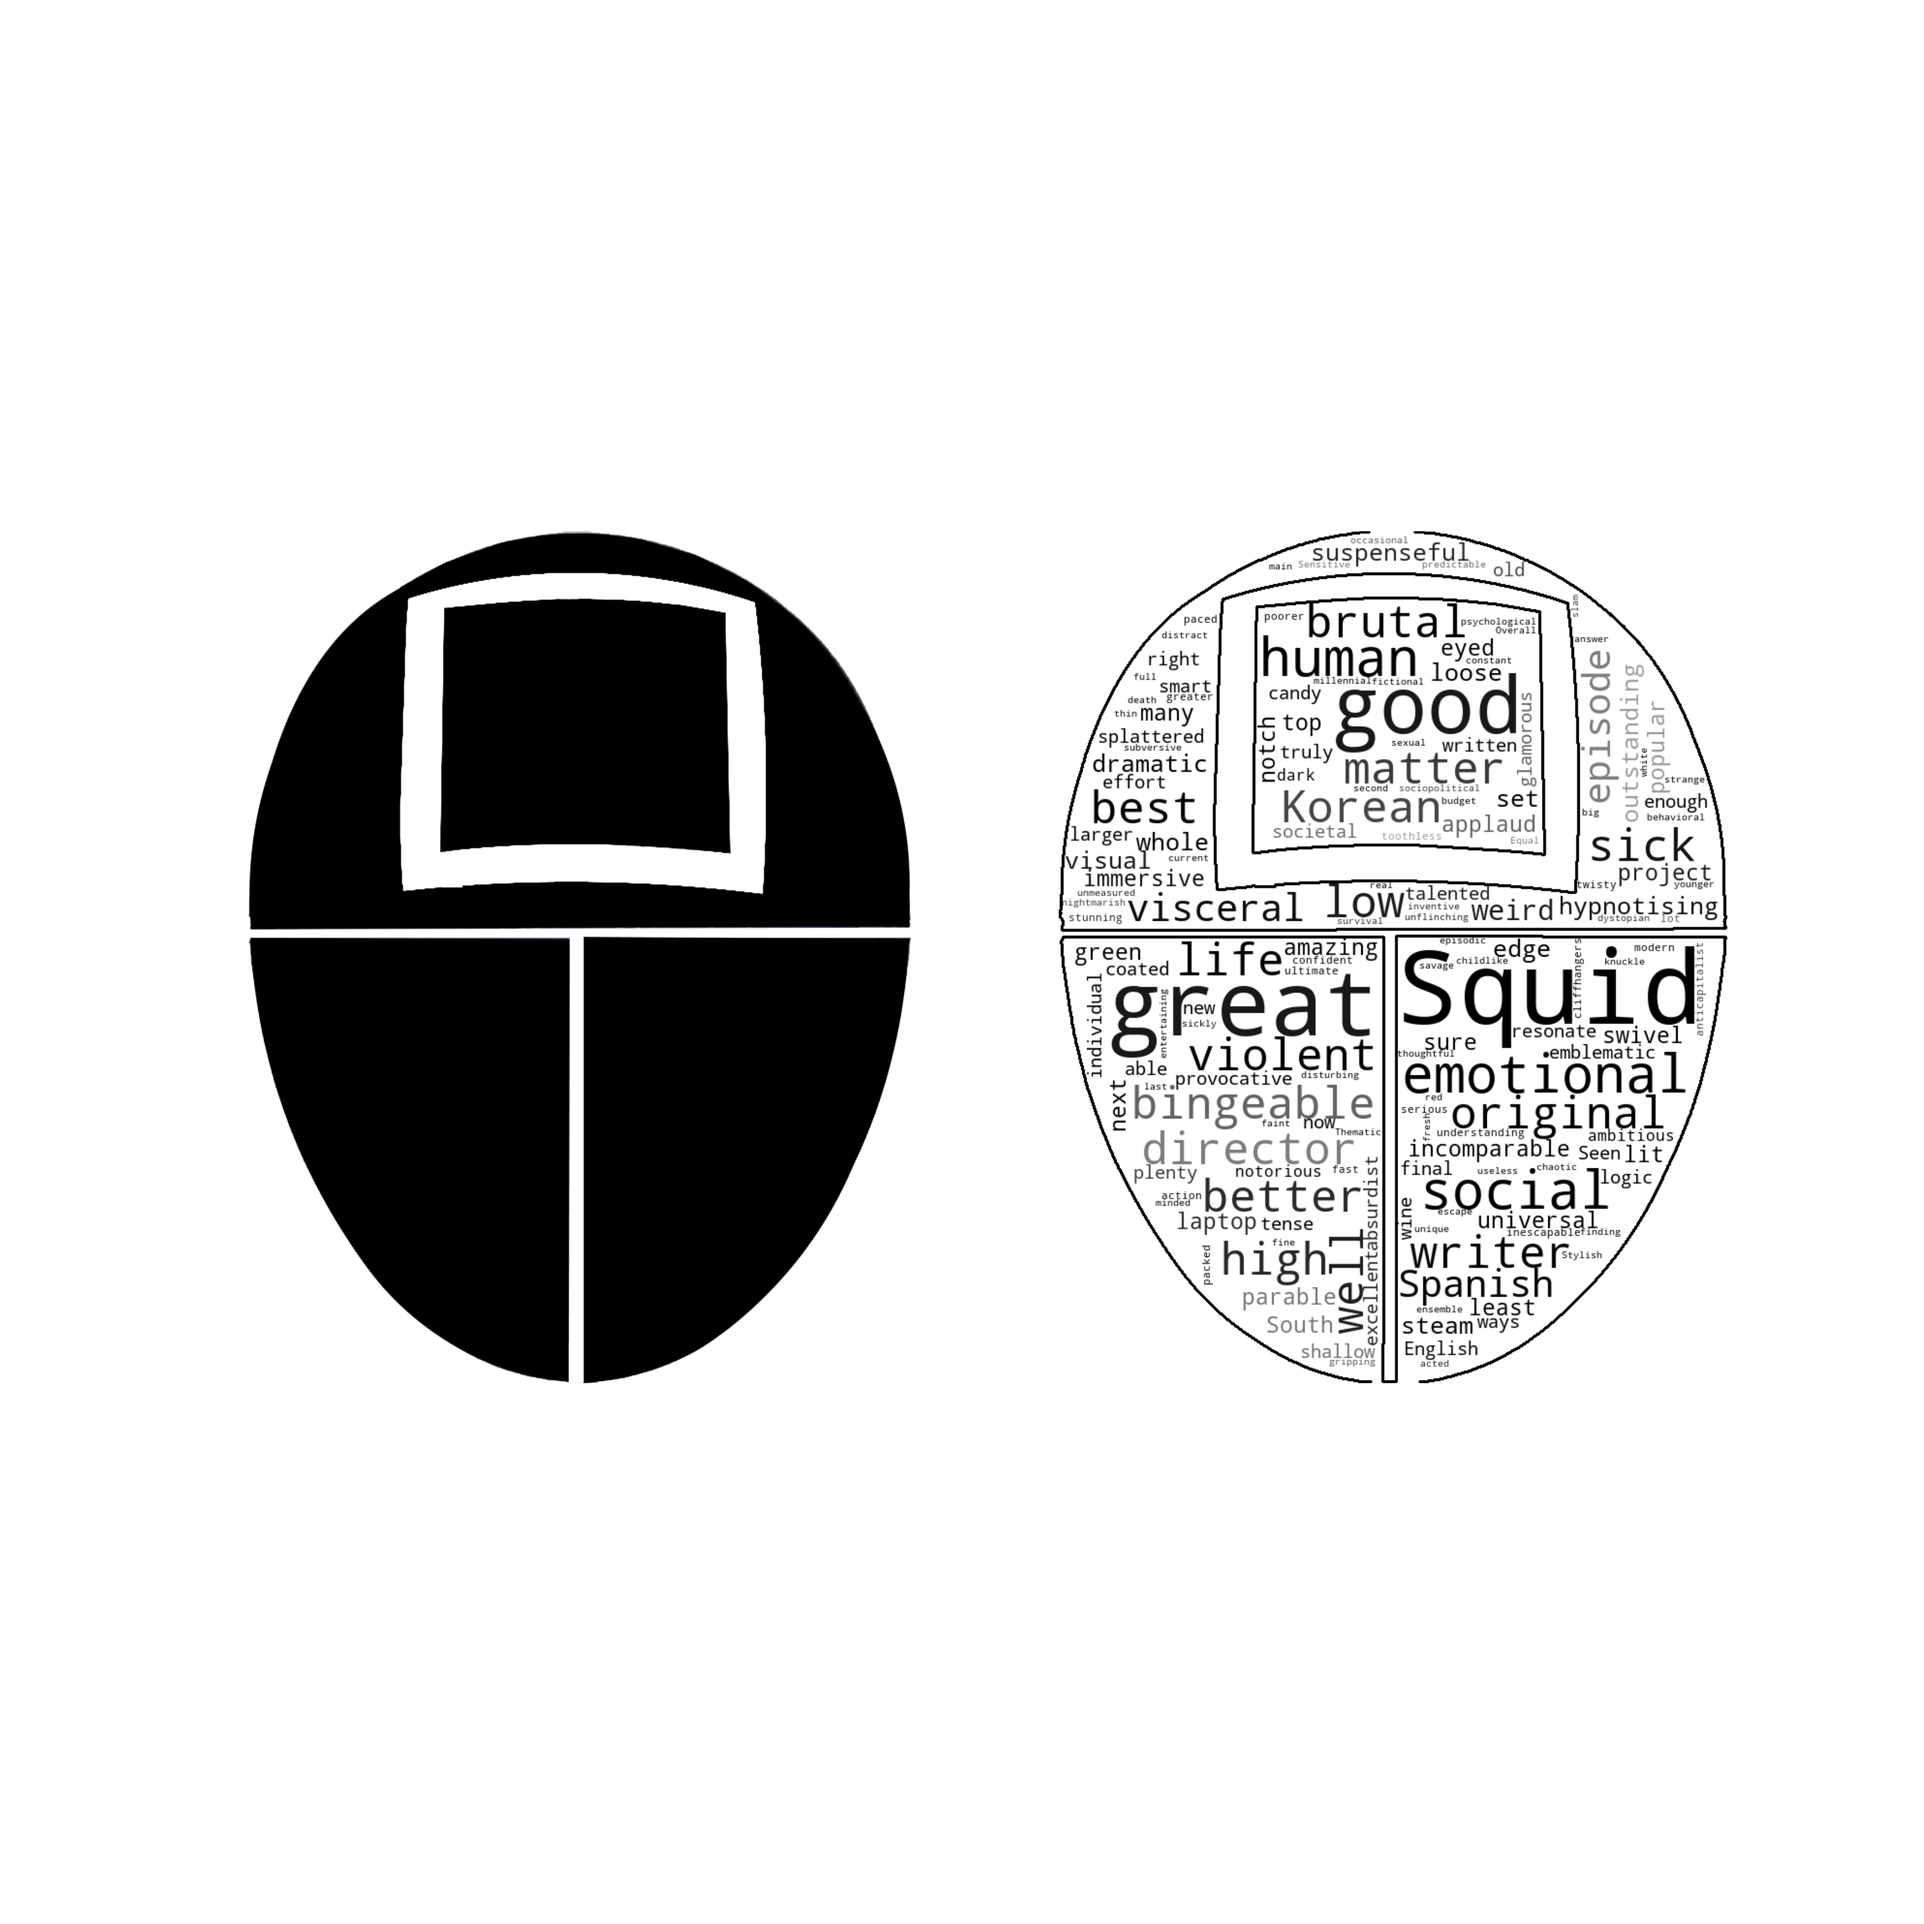
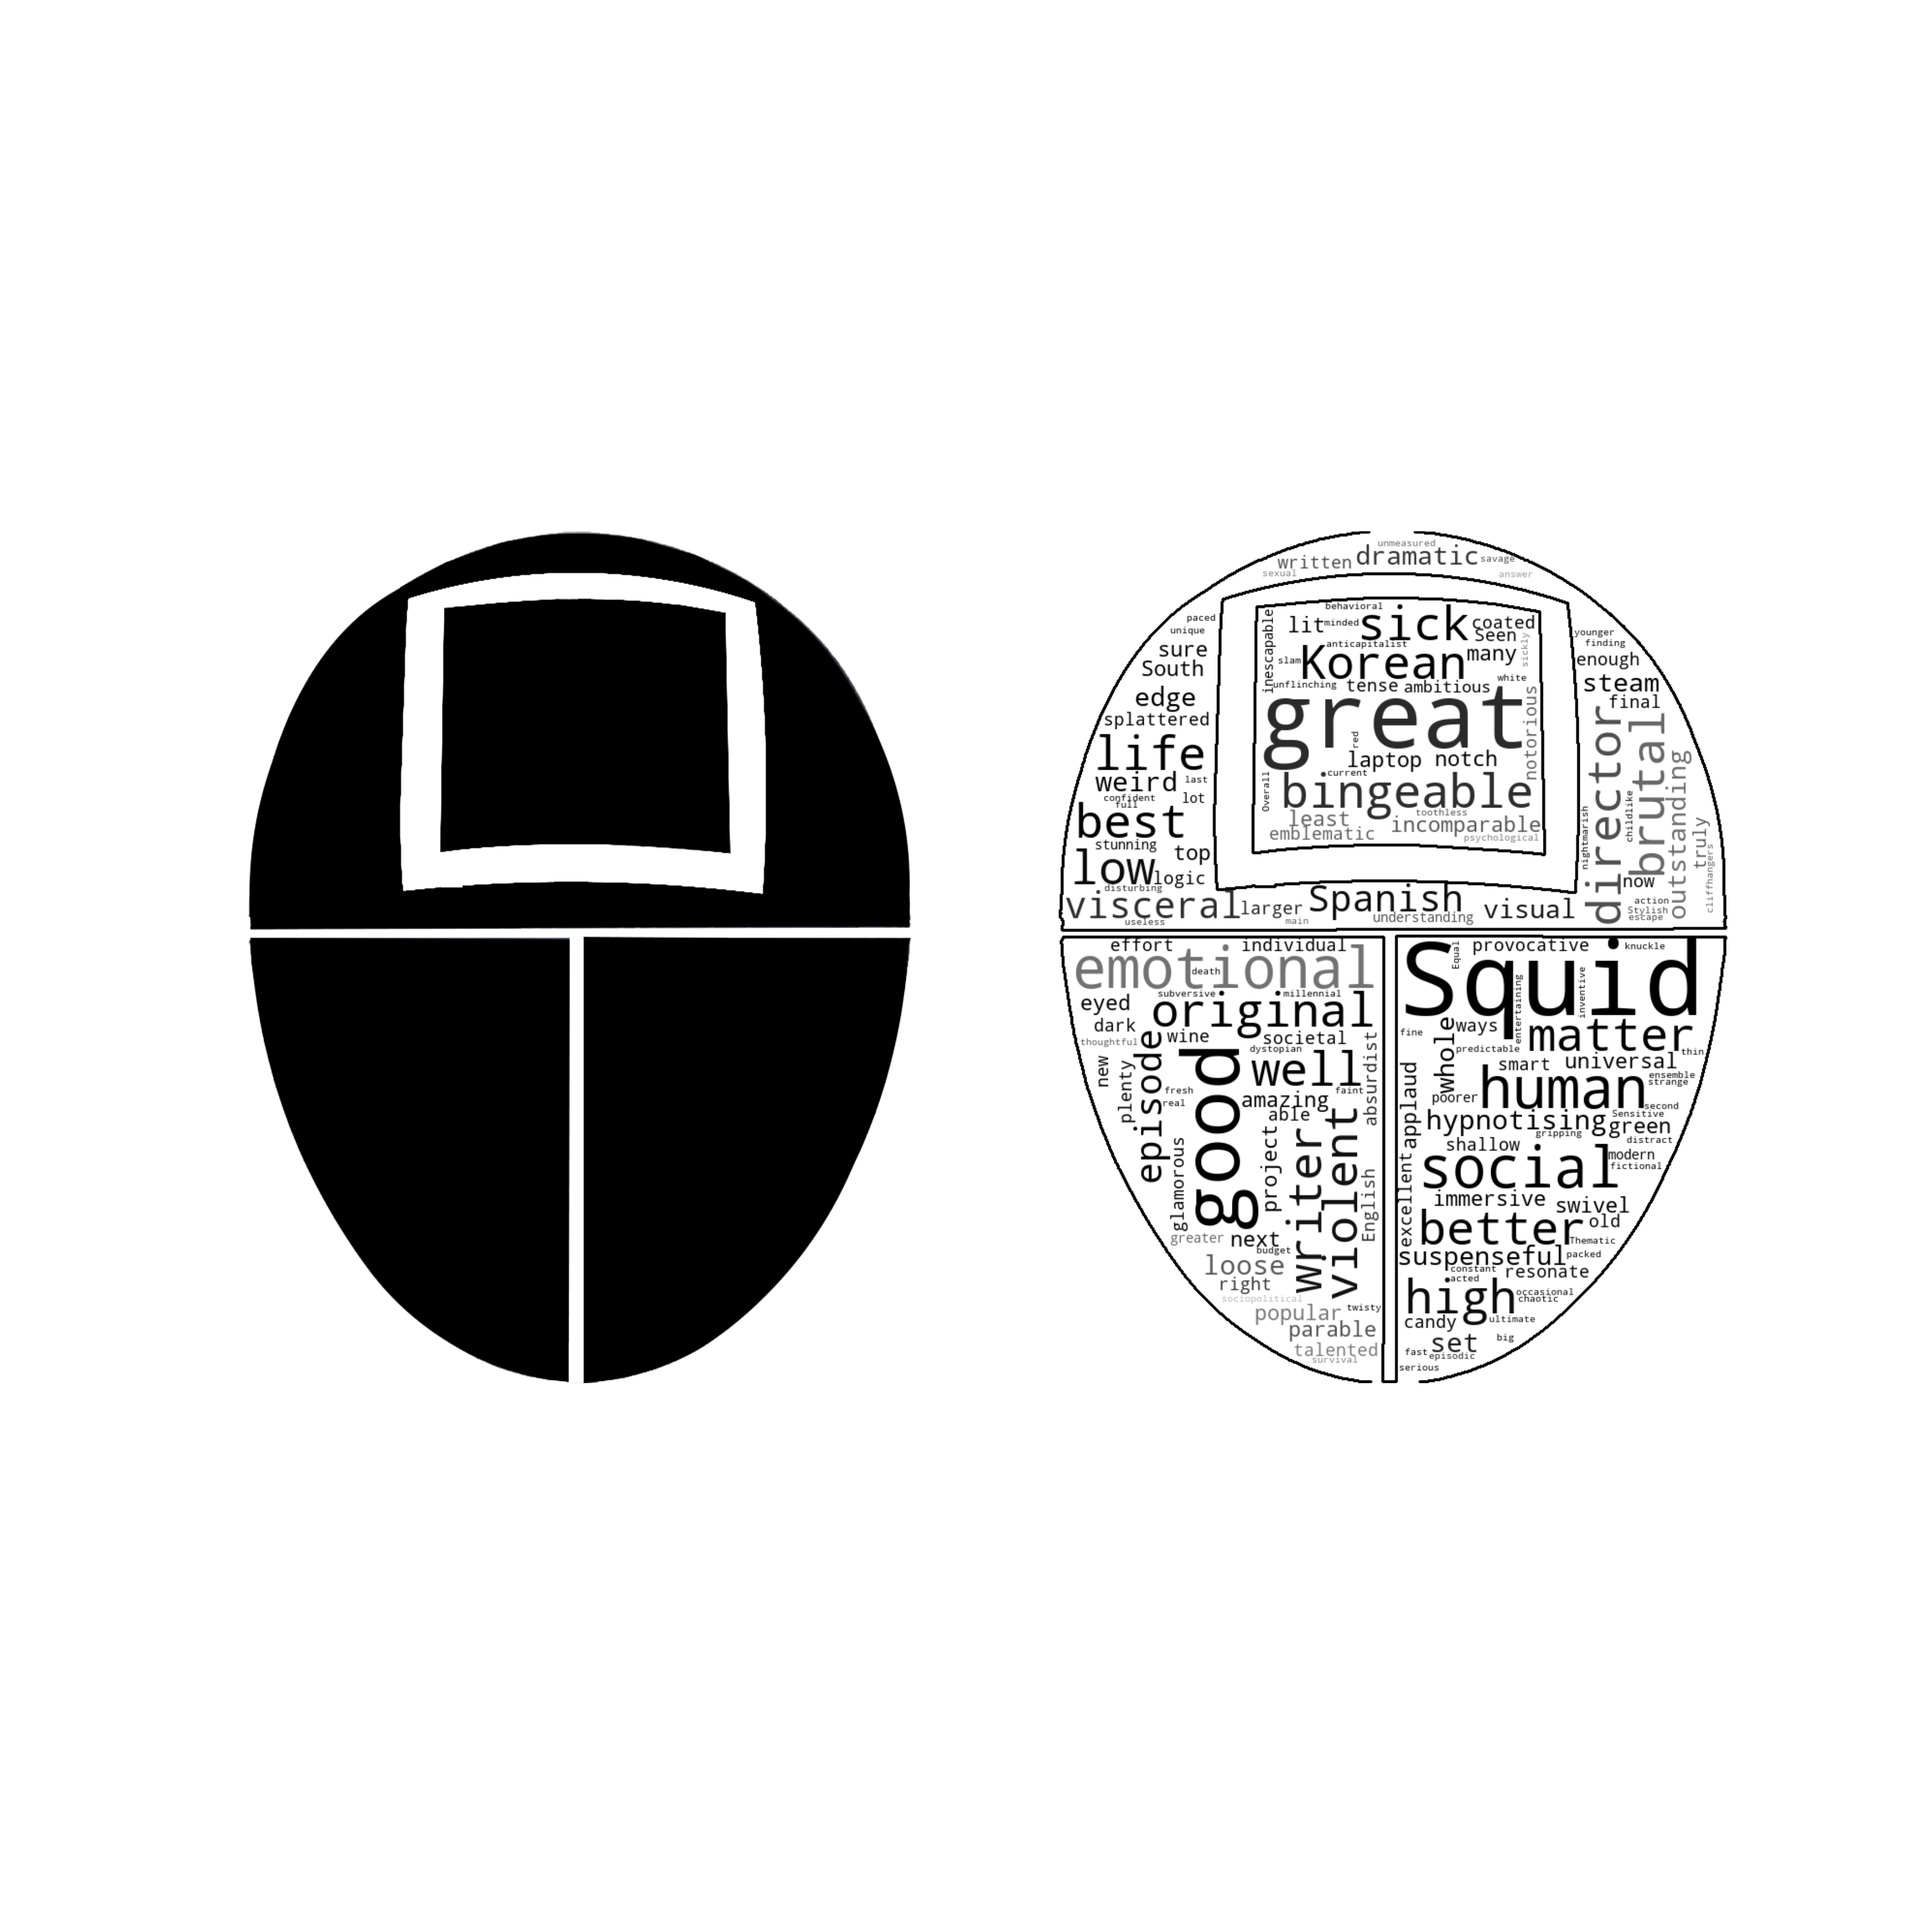
readme update

Changed region(s): [[0.56, 0.28, 0.9022, 0.7156]]

diff --git a/README.md b/README.md
@@ -1,1 +1,42 @@
-# SquidGame-S1-Critics
+<h2 align="center">Squid Game | Season 1 | Rotten Tomatoes 🍅</h2>
+
+<p align="center">Visualizando as críticas dos usuários do <a href="https://www.rottentomatoes.com/">Rotten Tomatoes</a> sobre a 1ª temporada de Squid Game, em uma nuvem de palavras.</p>&emsp;
+<p align="center">Web Scrapping • <a href="http://amueller.github.io/word_cloud/index.html">Word Cloud</a> • Data Visualization • <a href="https://www.nltk.org/">NLTK </a> • <a href="https://py-googletrans.readthedocs.io/en/latest/#language-detection">Googletrans</a></p>&emsp;
+
+
+## Tecnologias e ferramentas utilizadas:
+<div align="center">
+  <img src="https://img.shields.io/badge/Adobe-Photoshop-31A8FF?style=for-the-badge&logo=Adobe-Photoshop&labelColor=0a446b&logoWidth=15" alt="photoshop">
+  <img src="https://img.shields.io/badge/Jupyter-F37626.svg?&style=for-the-badge&logo=Jupyter&logoColor=white" alt="jupyter">
+</div>
+
+## Word Cloud | Inglês 
+<p align="center">
+  <kbd>
+    <img width="400" height="400" style="border-radius: 2px" src="./wc-adjs-squidgame.png" alt="wordcloud-en">
+  </kbd>
+</p>
+
+## Word Cloud | Português 
+
+<p align="center">
+  <kbd>
+    <img width="400" height="400" style="border-radius: 2px" src="./wc-adjs-pt-squidgame.png" alt="wordcloud-pt">
+  </kbd>
+</p>
+
+## Word Cloud | Espanhol 
+
+<p align="center">
+  <kbd>
+    <img  width="400" height="400" style="border-radius: 2px" src="./wc-adjs-es-squidgame.png" alt="wordcloud-es">
+  </kbd>
+</p>
+
+## Máscara criada no Photoshop | Square Soldier
+<p align="center">
+  <kbd>
+    <img width="300" height="400" style="border-radius: 2px" src="./Square-Mask-Edit.png" alt="square-soldier">
+    <h6 align="center"><i>By: Marina Eicardi</i></h6>
+  </kbd>
+</p>
